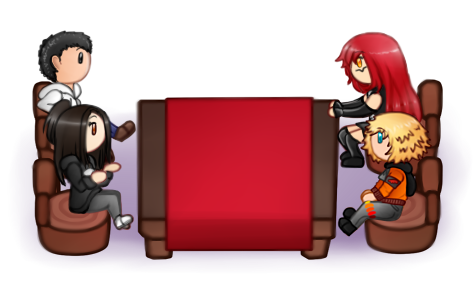
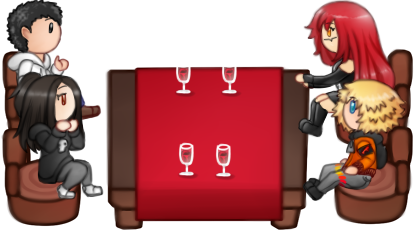
(refacto): new assets for plates and tables

diff --git a/src/physical/plate.ts b/src/physical/plate.ts
@@ -7,6 +7,7 @@ export class Plate implements Physical {
     public position: Position,
     public size: Size,
     public destination: Position,
+    public dish: string,
     src: string,
   ) {
     this.image.src = src;
@@ -18,12 +19,18 @@ export class Plate implements Physical {
       y: this.position.y + this.size.height / 2,
     };
   }
+
+  showDish(): void {
+    this.image.src = `/assets/plates/${this.dish}.png`;
+  }
 }
 
 export class PlateBuilder {
   private position: Position = { x: 0, y: 0 };
   private size: Size = { width: 0, height: 0 };
   private destination: Position = { x: 0, y: 0 };
+
+  private dish: string = '';
   private src: string = '';
 
   constructor() {}
@@ -48,8 +55,19 @@ export class PlateBuilder {
     return this;
   }
 
+  filledWith(dish: string) {
+    this.dish = dish;
+    return this;
+  }
+
   build() {
-    return new Plate(this.position, this.size, this.destination, this.src);
+    return new Plate(
+      this.position,
+      this.size,
+      this.destination,
+      this.dish,
+      this.src,
+    );
   }
 }
 
@@ -62,16 +80,18 @@ const plate0 = new PlateBuilder()
 
 const plate1 = new PlateBuilder()
   .at({ x: 1165, y: 40 })
-  .deliverTo({ x: 430, y: 785 })
+  .deliverTo({ x: 430, y: 800 })
   .sized({ width: 60, height: 54 })
   .withSrc('/assets/plates/plate.png')
+  .filledWith('omelette')
   .build();
 
 const plate2 = new PlateBuilder()
   .at({ x: 1165, y: 40 })
-  .deliverTo({ x: 330, y: 785 })
+  .deliverTo({ x: 330, y: 800 })
   .sized({ width: 60, height: 54 })
   .withSrc('/assets/plates/plate.png')
+  .filledWith('bouchee')
   .build();
 
 const plate3 = new PlateBuilder()
@@ -79,6 +99,7 @@ const plate3 = new PlateBuilder()
   .deliverTo({ x: 330, y: 850 })
   .sized({ width: 60, height: 54 })
   .withSrc('/assets/plates/plate.png')
+  .filledWith('poisson')
   .build();
 
 const plate4 = new PlateBuilder()
@@ -86,6 +107,7 @@ const plate4 = new PlateBuilder()
   .deliverTo({ x: 430, y: 850 })
   .sized({ width: 60, height: 54 })
   .withSrc('/assets/plates/plate.png')
+  .filledWith('poulet')
   .build();
 
 export const Plates = [plate0, plate1, plate2, plate3, plate4];

diff --git a/src/physical/character.ts b/src/physical/character.ts
@@ -6,8 +6,8 @@ export type HeldObject = 'plate' | 'glass';
 
 export class Character {
   public position: Position = {
-    x: 1170,
-    y: 50,
+    x: 1000,
+    y: 500,
   };
   public size: Size = {
     width: 100,
@@ -51,8 +51,8 @@ export class Character {
 
   resetPosition() {
     this.position = {
-      x: 1170,
-      y: 50,
+      x: 925,
+      y: 540,
     };
   }
 

diff --git a/src/interactions/plate-serving.ts b/src/interactions/plate-serving.ts
@@ -43,6 +43,7 @@ export class PlateInteractions {
     if (distanceX > 100 || distanceX < 0) return;
     if (distanceY < -100 || distanceY > 60) return;
 
+    this.plates[index].showDish();
     this.graphics.showPlateOnTable(index, this.plates[index].destination);
     this.served++;
     this.character.emptyHand();
